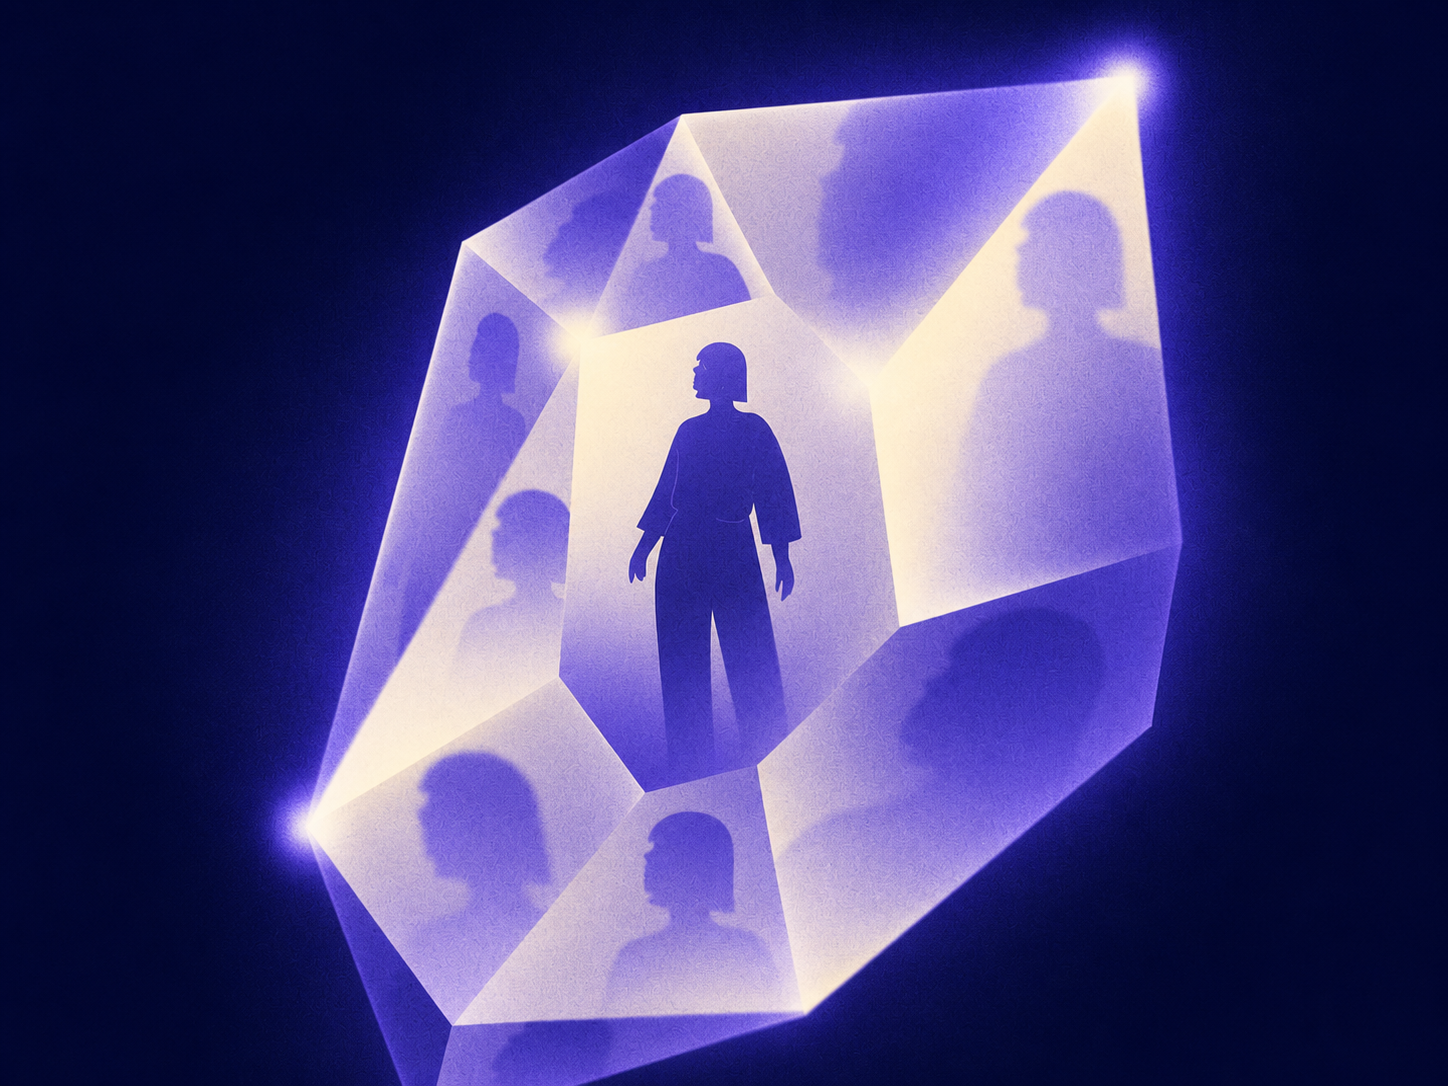
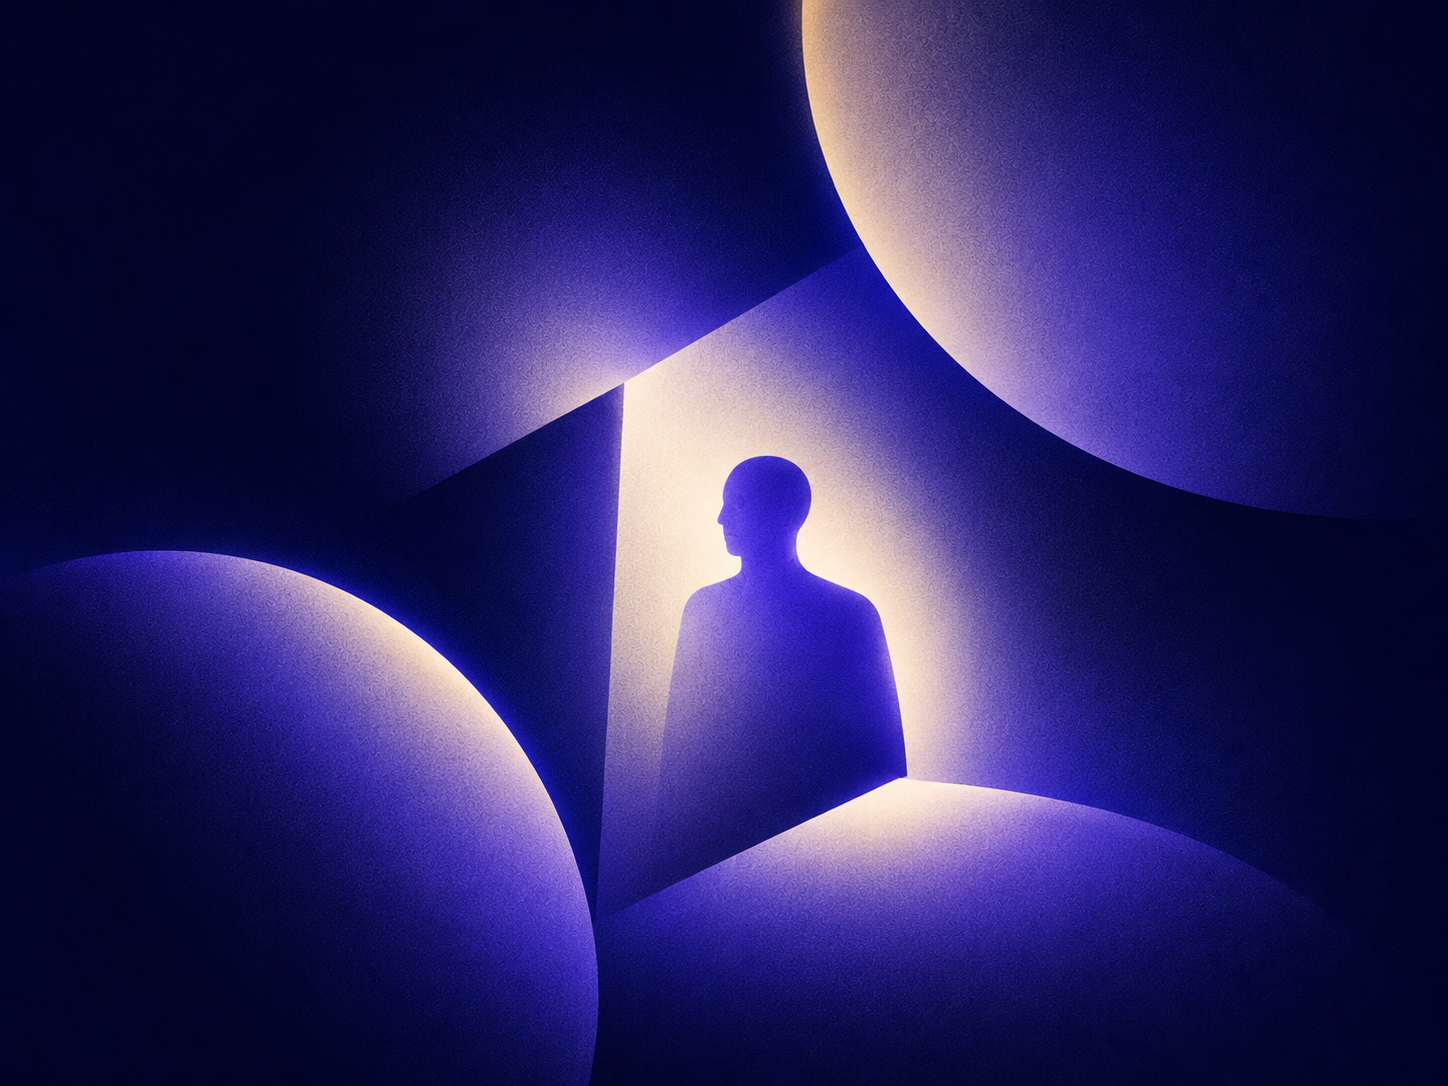
Fix lint errors blocking Vercel build
- Escape apostrophes in JSX text (blog, insights, contact, ContactForm)
- Replace let with const in LogoLoop and Preloader
- Refactor CookieBanner to useSyncExternalStore (avoids set-state-in-effect)

diff --git a/src/components/CookieBanner.tsx b/src/components/CookieBanner.tsx
@@ -1,27 +1,27 @@
 "use client";
 
-import { useState, useEffect } from "react";
+import { useState, useSyncExternalStore } from "react";
 import { Button } from "@/components/Button";
 
-export function CookieBanner() {
-  const [visible, setVisible] = useState(false);
+const subscribe = () => () => {};
+const getConsent = () => localStorage.getItem("cookie-consent");
+const getServerConsent = () => null;
 
-  useEffect(() => {
-    const consent = localStorage.getItem("cookie-consent");
-    if (!consent) setVisible(true);
-  }, []);
+export function CookieBanner() {
+  const consent = useSyncExternalStore(subscribe, getConsent, getServerConsent);
+  const [dismissed, setDismissed] = useState(false);
+
+  if (consent || dismissed) return null;
 
   const accept = () => {
     localStorage.setItem("cookie-consent", "accepted");
-    setVisible(false);
+    setDismissed(true);
   };
 
   const decline = () => {
     localStorage.setItem("cookie-consent", "declined");
-    setVisible(false);
+    setDismissed(true);
   };
-
-  if (!visible) return null;
 
   return (
     <div
@@ -53,4 +53,3 @@ export function CookieBanner() {
     </div>
   );
 }
-

diff --git a/src/app/contact/page.tsx b/src/app/contact/page.tsx
@@ -41,7 +41,7 @@ export default function ContactPage() {
                 style={{ color: "rgba(255,255,255,0.6)" }}
               >
                 Thirty minutes. We ask, you answer, we give you our honest
-                read on whether there's a fit, and what a signal audit would
+                read on whether there&rsquo;s a fit, and what a signal audit would
                 surface in your business.
               </p>
 
@@ -86,7 +86,7 @@ export default function ContactPage() {
               className="text-[15px] leading-[1.75] mb-7"
               style={{ color: "#71717A" }}
             >
-              For press, partnerships, or anything that doesn't fit a 30-minute
+              For press, partnerships, or anything that doesn&rsquo;t fit a 30-minute
               call. We read every message and reply the same day where we can.
             </p>
             <ContactForm />
@@ -109,7 +109,7 @@ export default function ContactPage() {
               <Link href="/faq" className="font-semibold hover:underline" style={{ color: "#5A4FCF" }}>
                 FAQ
               </Link>{" "}
-              for straight answers about how we work and whether we're a fit.
+              for straight answers about how we work and whether we&rsquo;re a fit.
             </p>
           </div>
           <div>

diff --git a/src/components/Preloader.tsx b/src/components/Preloader.tsx
@@ -26,9 +26,7 @@ export function Preloader() {
     const symbol = symbolRef.current;
     if (!overlay || !symbol) return;
 
-    let tl: gsap.core.Timeline;
     let loadTimer: ReturnType<typeof setTimeout>;
-    let safetyTimer: ReturnType<typeof setTimeout>;
 
     const dismiss = () => {
       gsap.set('[data-hero="heading"], [data-hero="body"], [data-hero="image"]', { clearProps: "opacity,transform,translate,rotate,scale" });
@@ -36,14 +34,14 @@ export function Preloader() {
       setGone(true);
     };
 
-    safetyTimer = setTimeout(dismiss, 6000);
+    const safetyTimer = setTimeout(dismiss, 6000);
 
     const onVisible = () => { if (!document.hidden) gsap.ticker.wake(); };
     document.addEventListener("visibilitychange", onVisible);
 
     gsap.set('[data-hero="heading"], [data-hero="body"], [data-hero="image"]', { opacity: 0, y: 0 });
 
-    tl = gsap.timeline();
+    const tl = gsap.timeline();
     tl.to(symbol, { y: 0, opacity: 1, duration: 1.6, ease: "power2.out" });
 
     const exit = () => {

diff --git a/src/app/blog/[slug]/page.tsx b/src/app/blog/[slug]/page.tsx
@@ -93,7 +93,7 @@ export default async function BlogPostPage({ params }: Props) {
               Found something worth investigating?
             </p>
             <p className="text-[14px] leading-[1.65]" style={{ color: "#71717A" }}>
-              A Signal Audit takes five days. We map what's actually driving revenue and what isn't.
+              A Signal Audit takes five days. We map what&rsquo;s actually driving revenue and what isn&rsquo;t.
             </p>
           </div>
           <ButtonLink href="/book" size="lg">Book</ButtonLink>

diff --git a/src/app/insights/[slug]/page.tsx b/src/app/insights/[slug]/page.tsx
@@ -92,7 +92,7 @@ export default async function InsightPostPage({ params }: Props) {
               Found something worth investigating?
             </p>
             <p className="text-[14px] leading-[1.65]" style={{ color: "#71717A" }}>
-              A Signal Audit takes five days. We map what's actually driving revenue and what isn't.
+              A Signal Audit takes five days. We map what&rsquo;s actually driving revenue and what isn&rsquo;t.
             </p>
           </div>
           <ButtonLink href="/book" size="lg">Book</ButtonLink>

diff --git a/src/components/ContactForm.tsx b/src/components/ContactForm.tsx
@@ -27,7 +27,7 @@ export function ContactForm() {
           Message received.
         </p>
         <p className="text-[15px]" style={{ color: "#3F3F46" }}>
-          We'll get back to you within one business day.
+          We&rsquo;ll get back to you within one business day.
         </p>
       </div>
     );

diff --git a/src/components/LogoLoop.tsx b/src/components/LogoLoop.tsx
@@ -107,7 +107,7 @@ const useAnimationLoop = (
       const easing = 1 - Math.exp(-deltaTime / ANIMATION_CONFIG.SMOOTH_TAU);
       velocityRef.current += (target - velocityRef.current) * easing;
       if (seqSize > 0) {
-        let next = ((offsetRef.current + velocityRef.current * deltaTime) % seqSize + seqSize) % seqSize;
+        const next = ((offsetRef.current + velocityRef.current * deltaTime) % seqSize + seqSize) % seqSize;
         offsetRef.current = next;
         track.style.transform = isVertical
           ? `translate3d(0, ${-next}px, 0)`